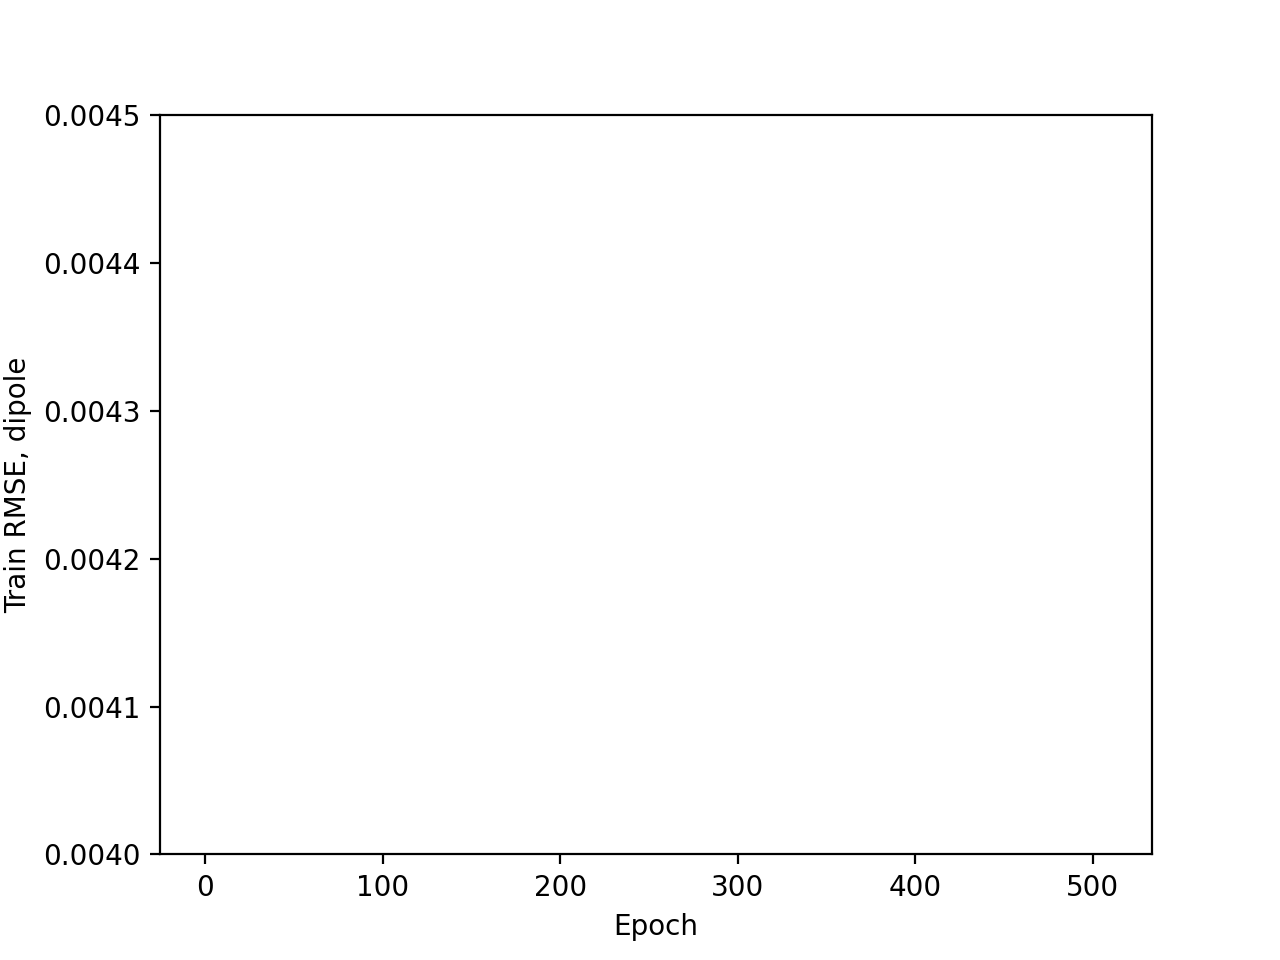
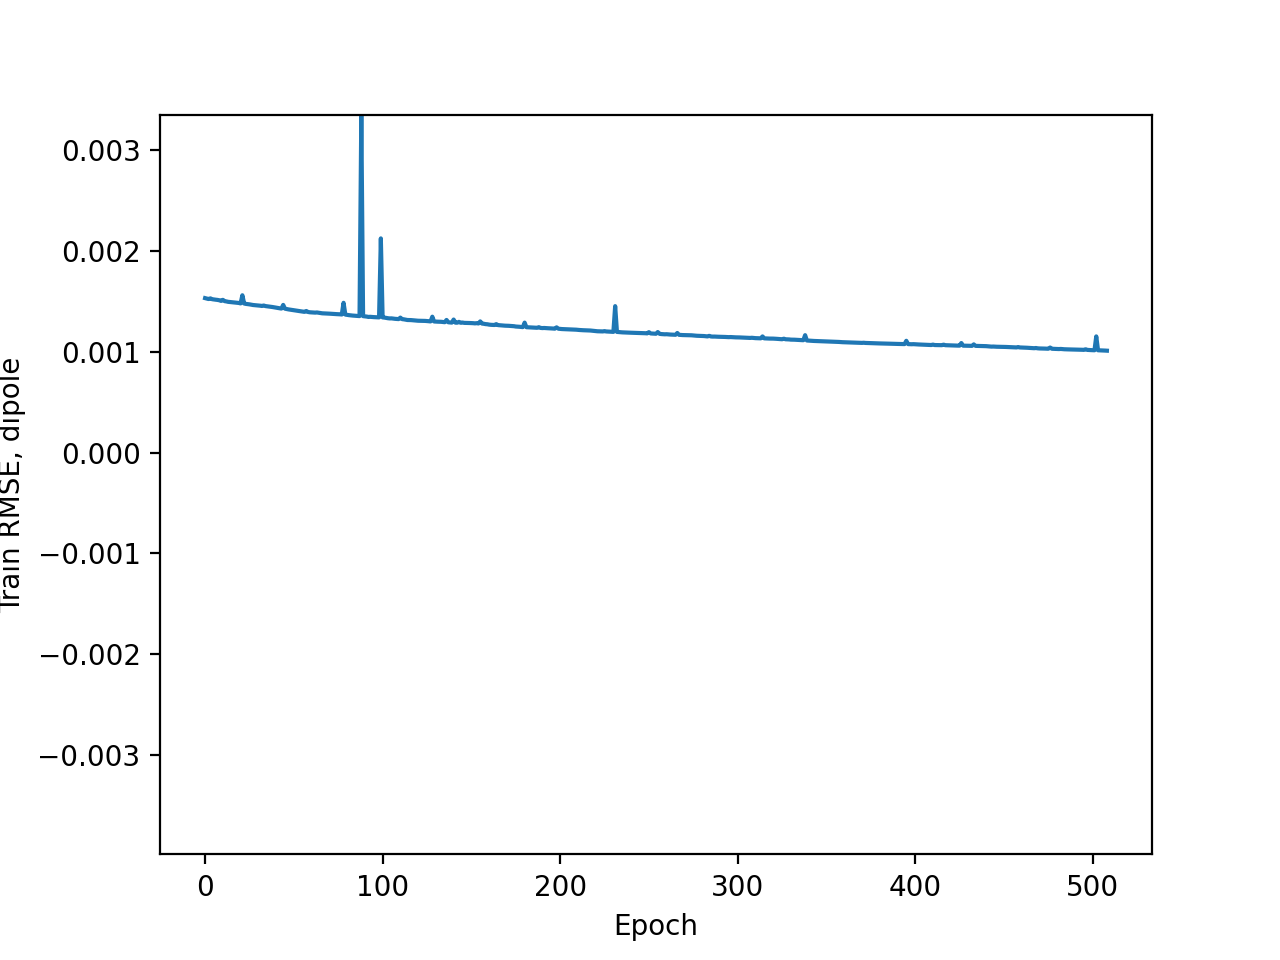
fixed training curves

diff --git a/aenet/python/training_curve.py b/aenet/python/training_curve.py
@@ -27,14 +27,12 @@ if not (sys.argv[3] == 'True'):
     plt.plot(test_rmse)
     plt.xlabel('Epoch')
     plt.ylabel('Test RMSE, y-component')
-    plt.ylim([0.0015, 0.003])
-    print(max(test_rmse))
-    print(min(test_rmse))
+    plt.ylim([min(test_rmse) - 0.005, max(test_rmse)])
     plt.savefig(f'{outfile}', dpi=200)
 else:
     plt.plot(train_rmse)
     plt.xlabel('Epoch')
     plt.ylabel(f'Train RMSE, {axis}')
-    plt.ylim([0.004, 0.0045])
+    plt.ylim([min(train_rmse) - 0.005, max(train_rmse)])
     plt.savefig(f'{outfile}', dpi=200)
 
